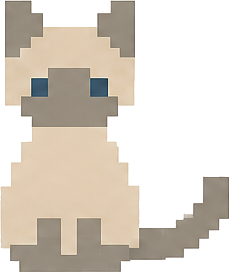
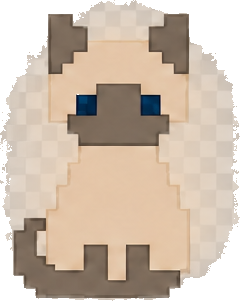
Village round 15: cleaner Somi animation, cropped for exact alignment
The user supplied a new, cleaner 6-pose Somi sheet directly
(village-animation-somi-transparent.png), asking to remove round 13's set
and replace it, "make sure they are alligned and not too big/small."

- somi-idle-1/2/3.png, somi-walk.png, somi-stretch.png, somi-play.png
  replaced with crops from the new sheet. Verified via a full pixel
  histogram that its alpha channel is genuinely clean (every pixel exactly
  0 or 255, no soft/dithered edges) - the checkerboard visible in image
  previews is just the viewer's own transparency indicator, not a defect
  in the file.
- Every frame cropped to its EXACT opaque bounding box with zero padding,
  not the generous-padding approach used before - padding this size would
  differ as a fraction of each frame's own height, and SpriteCycle's
  bottom-anchor would then put each pose's "feet" at a slightly different
  height, a visible hop between poses. Zero padding across all six frames
  means the ground position is identical no matter which pose is showing.
- somi-belly-up.png (round 13, sourced from a different sheet with no
  equivalent pose here) deleted rather than mixed into a differently-
  cropped set. CatShape now cycles 6 frames, not 7 - h dropped from 22 to
  20, periodSec from 21 to 18 (3s/frame either way).
- globals.css: village-cycle-7 keyframe replaced with village-cycle-6
  (no longer any 7-frame cycle in the scene).
- ATTRIBUTION.md updated with the new source file and the alignment
  reasoning.

diff --git a/components/village/scene/shapes.tsx b/components/village/scene/shapes.tsx
@@ -426,22 +426,27 @@ export function CatShape({ x, y, name = 'Somi', scale = 1, onClick }: {
 }) {
   // stopPropagation, same reason as VillagerShape above.
   const handleClick = onClick ? (e: React.MouseEvent) => { e.stopPropagation(); onClick() } : undefined
-  // Real sprite art (round 9), now actually alive (round 13, 2026-08-27,
-  // village-animations-complete.zip) — the single static somi-cat.png
-  // pose is replaced with SpriteCycle across seven real poses: three
-  // subtly different sitting/tail-swish frames (the "idle breathing" of
-  // the cycle), then a walk, a stretch-and-sniff, a play-pounce, and a
-  // belly-up sprawl, in that order, 3s each (21s full loop) — slow enough
-  // to read as "she's actually doing things" rather than a fidgety loop.
-  const h = 22
+  // Real sprite art (round 9), made alive (round 13), then replaced with a
+  // cleaner second animation set the user supplied directly (round 15,
+  // 2026-08-27, village-animation-somi-transparent.png — genuinely clean
+  // hard-alpha art, confirmed via a full histogram: every pixel is either
+  // 0 or 255, no soft/dithered edges at all). Six poses now, not seven —
+  // round 13's belly-up frame came from a different source file and had
+  // no equivalent here, so it's dropped rather than mixed with a
+  // differently-styled art source. Every frame cropped to its own EXACT
+  // opaque bounding box (no padding) specifically so SpriteCycle's
+  // bottom-anchor lines up the same "ground" position in every pose —
+  // the user's own "make sure they are aligned" ask: padding this size
+  // would’ve differed as a fraction of each frame's own height and made
+  // poses visibly hop up/down as they cycled.
+  const h = 20
   const frames = [
-    { src: '/village-assets/somi-idle-1.png', aspect: 172 / 272 },
-    { src: '/village-assets/somi-idle-2.png', aspect: 229 / 272 },
-    { src: '/village-assets/somi-idle-3.png', aspect: 230 / 272 },
-    { src: '/village-assets/somi-walk.png', aspect: 305 / 254 },
-    { src: '/village-assets/somi-stretch.png', aspect: 300 / 248 },
-    { src: '/village-assets/somi-play.png', aspect: 322 / 159 },
-    { src: '/village-assets/somi-belly-up.png', aspect: 1061 / 675 },
+    { src: '/village-assets/somi-idle-1.png', aspect: 272 / 305 },
+    { src: '/village-assets/somi-idle-2.png', aspect: 240 / 301 },
+    { src: '/village-assets/somi-idle-3.png', aspect: 285 / 300 },
+    { src: '/village-assets/somi-walk.png', aspect: 360 / 230 },
+    { src: '/village-assets/somi-stretch.png', aspect: 357 / 223 },
+    { src: '/village-assets/somi-play.png', aspect: 372 / 211 },
   ]
   return (
     <g transform={`translate(${x} ${y}) scale(${scale})`} onClick={handleClick}
@@ -454,7 +459,7 @@ export function CatShape({ x, y, name = 'Somi', scale = 1, onClick }: {
           a stable hit target regardless of which pose is currently up. */}
       {onClick && <circle cx={0} cy={-h / 2} r={Math.max(14, h / 2 + 4)} fill="transparent" style={{ pointerEvents: 'all' }} />}
       <ellipse cx={0} cy={1} rx={h / 2.2} ry={1.6} fill="var(--text)" opacity={0.15} />
-      <SpriteCycle frames={frames} x={0} y={0} height={h} periodSec={21} />
+      <SpriteCycle frames={frames} x={0} y={0} height={h} periodSec={18} />
     </g>
   )
 }

diff --git a/app/globals.css b/app/globals.css
@@ -432,7 +432,7 @@ select, option {
    discrete poses rather than a smooth crossfade. */
 @keyframes village-cycle-2 { 0%, 49.9% { opacity: 1; } 50%, 100% { opacity: 0; } }
 @keyframes village-cycle-4 { 0%, 24.9% { opacity: 1; } 25%, 100% { opacity: 0; } }
-@keyframes village-cycle-7 { 0%, 14.28% { opacity: 1; } 14.29%, 100% { opacity: 0; } }
+@keyframes village-cycle-6 { 0%, 16.6% { opacity: 1; } 16.7%, 100% { opacity: 0; } }
 
 /* The cast's idle sway (2026-08-25) — see VillagerShape/CatShape in
    shapes.tsx. Same slow/low-amplitude budget as drift/lantern above. */

diff --git a/public/village-assets/ATTRIBUTION.md b/public/village-assets/ATTRIBUTION.md
@@ -41,7 +41,16 @@ Farm pieces above. No third-party license applies to these; they're the user's o
 `fence2.png` and `mailbox3.png` are downloaded but not used yet (see VillageScene.tsx's own
 comments — fence2 doesn't fit FenceShape's variable-length API without restructuring it, and
 mailbox3 would duplicate Home's existing mailbox2). `somi-cat.png` (round 9's single static
-pose) was deleted in round 13 — fully superseded by the seven-pose SpriteCycle animation.
+pose) was deleted in round 13 — fully superseded by SpriteCycle animation.
+
+`somi-idle-1.png`…`-3.png`, `somi-walk.png`, `somi-stretch.png`, `somi-play.png` were replaced
+again in round 15 (2026-08-27) with a cleaner six-pose set the user supplied directly as
+`village-animation-somi-transparent.png` (not part of the three zips above) — genuinely clean
+hard-alpha art (confirmed via a full pixel histogram: every pixel is either 0 or 255 alpha, no
+soft/dithered edges), each frame cropped to its own exact opaque bounding box with zero padding
+so every pose's "ground" lines up identically when SpriteCycle switches between them.
+`somi-belly-up.png` (round 13, a different source file with no equivalent pose here) was
+deleted rather than mixed with this cleaner set.
 
 **There are only ever two people in this village: Sylvia and Harry, rendered once each (real
 sprites, near Home).** `couple-bench.png` (a real couple-on-a-bench crop from
